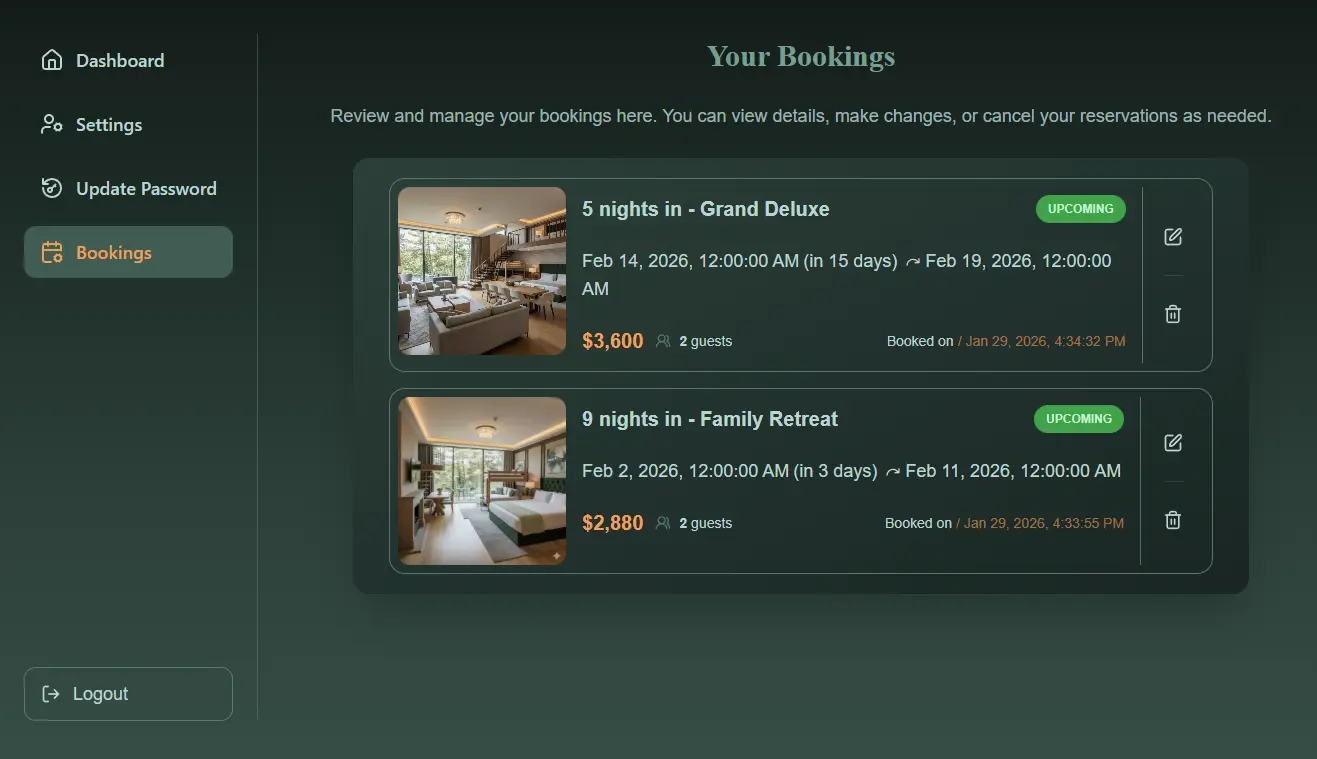
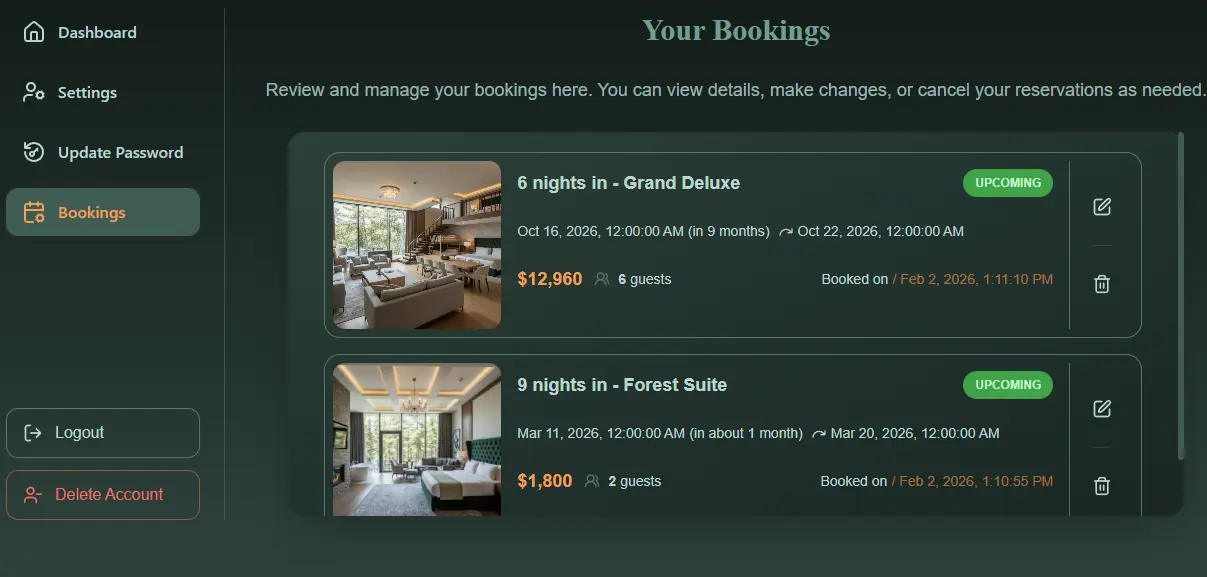
update:Add a description for Account Deletion, update the relevant screenshots.

diff --git a/README.md b/README.md
@@ -139,6 +139,20 @@ It showcases both **frontend excellence** and **backend data integrity**.
 
 ---
 
+## 🔐 Account Deletion
+
+The application supports secure account deletion.
+
+When a user deletes their account:
+
+- The account is removed from Supabase Authentication
+- All related records are deleted from the database
+- The user session is invalidated automatically
+
+This process is executed server-side to ensure security and data integrity.
+
+---
+
 ### 🌍 Internationalization & Currency
 
 - Supported languages:
